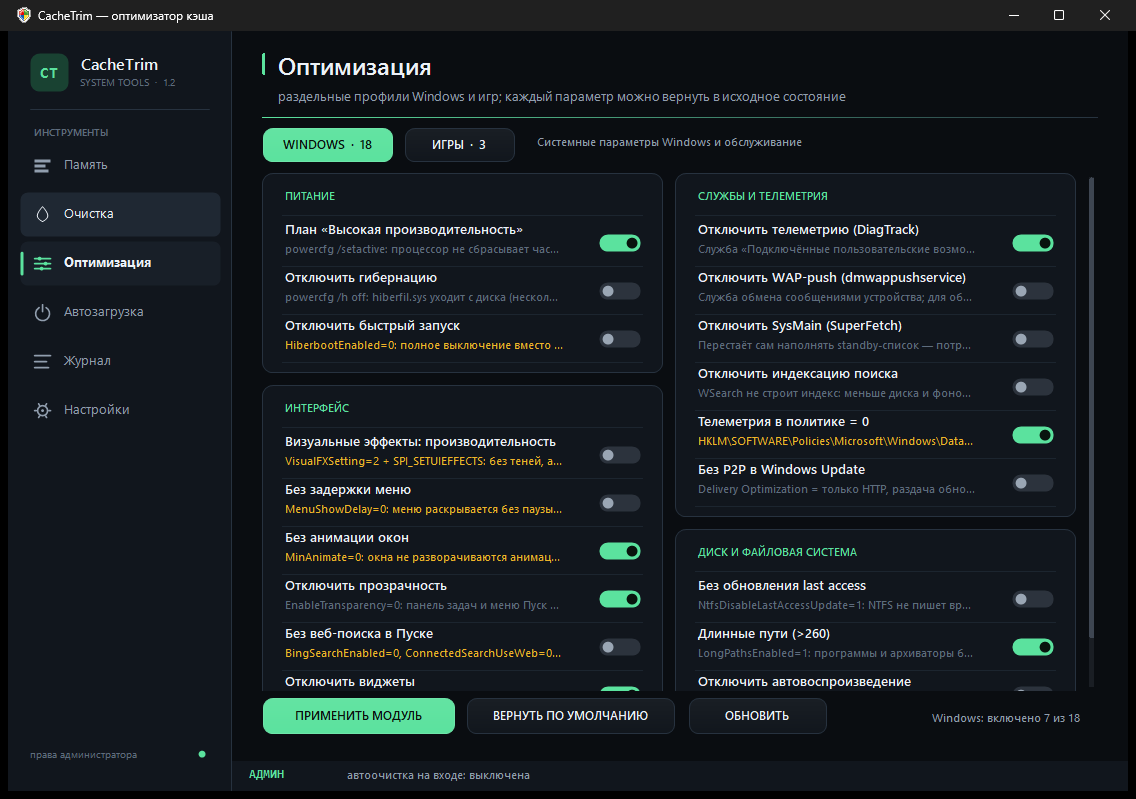
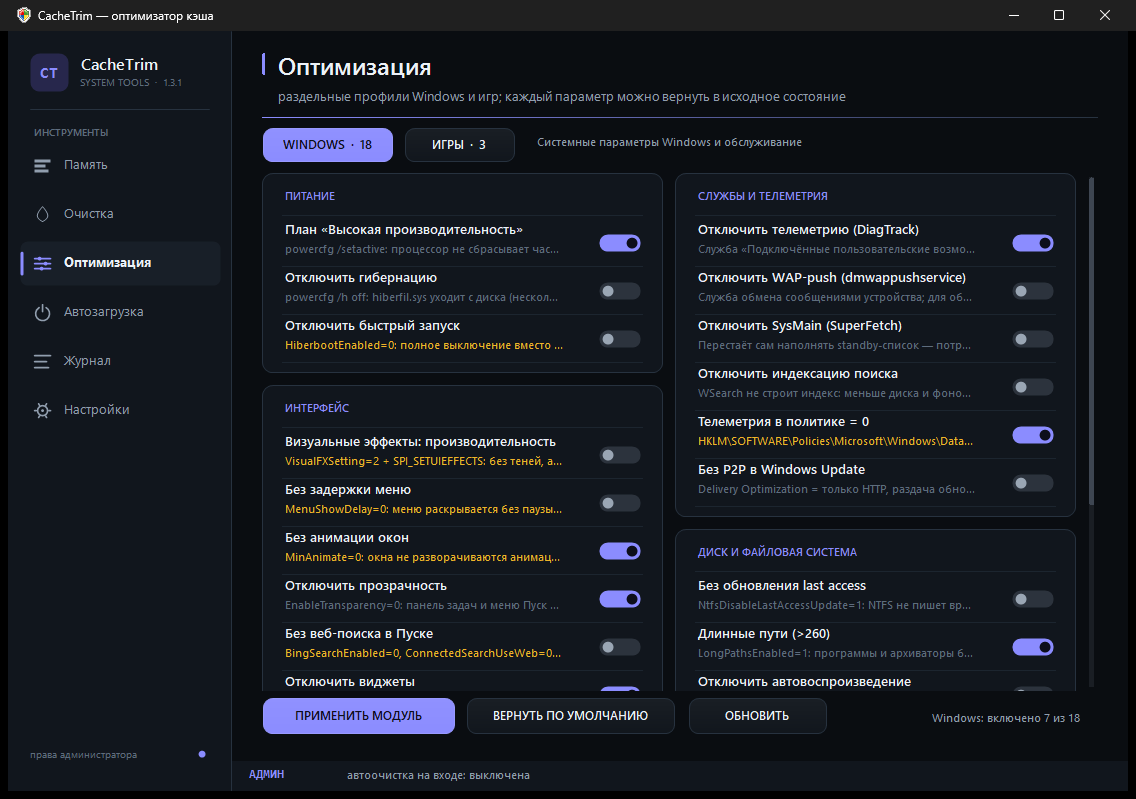
Refresh CacheTrim with an indigo visual theme

diff --git a/src/Controls.cs b/src/Controls.cs
@@ -79,7 +79,7 @@ namespace CacheTrim
                 fill = _down ? Theme.Blend(Theme.Accent, Color.Black, 0.18)
                     : (_hover ? Theme.Blend(Theme.Accent, Color.White, 0.08) : Theme.Accent);
                 border = Theme.Blend(fill, Color.White, 0.12);
-                text = Color.FromArgb(8, 18, 12);
+                text = Color.FromArgb(13, 14, 27);
             }
             else
             {
@@ -158,7 +158,7 @@ namespace CacheTrim
             int x = Checked ? track.Right - d - 3 : track.X + 3;
             Rectangle knob = new Rectangle(x, track.Y + 3, d, d);
 
-            using (SolidBrush b = new SolidBrush(Checked ? Color.FromArgb(9, 20, 14) : Color.FromArgb(154, 166, 180)))
+            using (SolidBrush b = new SolidBrush(Checked ? Color.FromArgb(13, 14, 27) : Color.FromArgb(154, 166, 180)))
                 g.FillEllipse(b, knob);
         }
     }
@@ -220,7 +220,7 @@ namespace CacheTrim
 
             if (Checked)
             {
-                using (Pen p = new Pen(Color.FromArgb(9, 20, 14), 1.8f))
+                using (Pen p = new Pen(Color.FromArgb(13, 14, 27), 1.8f))
                 {
                     p.StartCap = LineCap.Round;
                     p.EndCap = LineCap.Round;

diff --git a/src/Theme.cs b/src/Theme.cs
@@ -17,12 +17,12 @@ namespace CacheTrim
         public static readonly Color Text = Color.FromArgb(237, 242, 248);
         public static readonly Color Muted = Color.FromArgb(145, 158, 174);
         public static readonly Color Faint = Color.FromArgb(94, 108, 125);
-        public static readonly Color Accent = Color.FromArgb(91, 226, 158);
-        public static readonly Color AccentSoft = Color.FromArgb(25, 66, 50);
+        public static readonly Color Accent = Color.FromArgb(139, 140, 255);
+        public static readonly Color AccentSoft = Color.FromArgb(39, 39, 76);
         public static readonly Color Red = Color.FromArgb(226, 88, 74);
         public static readonly Color Amber = Color.FromArgb(240, 180, 41);
-        public static readonly Color Blue = Color.FromArgb(74, 163, 224);
-        public static readonly Color Violet = Color.FromArgb(150, 128, 240);
+        public static readonly Color Blue = Color.FromArgb(83, 177, 255);
+        public static readonly Color Violet = Color.FromArgb(190, 139, 255);
 
         public static Font H1
         {

diff --git a/src/AppInfo.cs b/src/AppInfo.cs
@@ -2,7 +2,7 @@ namespace CacheTrim
 {
     internal static class AppInfo
     {
-        public const string Version = "1.3.0";
+        public const string Version = "1.3.1";
         public const string GitHubRepository = "erwwec/CacheTrim";
         public const string GitHubReleaseApi = "https://api.github.com/repos/erwwec/CacheTrim/releases/latest";
     }

diff --git a/DESIGN-BRIEF.md b/DESIGN-BRIEF.md
@@ -91,24 +91,24 @@ CacheTrim\
 
 | Токен | RGB | Hex | Где используется |
 |---|---|---|---|
-| `Bg` | 12, 14, 17 | `#0C0E11` | фон окна, фон страниц, фон под карточками |
-| `Surface` | 20, 23, 28 | `#14171C` | поверхность карточек, фон рельса, BackColor всех детей карточки |
-| `SurfaceAlt` | 26, 30, 36 | `#1A1E24` | активный пункт рельса, поле Stepper |
-| `Hover` | 32, 37, 44 | `#20252C` | hover-заливка рельса и кнопок |
-| `Line` | 38, 43, 52 | `#262B34` | границы карточек, разделители, вертикаль рельса |
-| `RowLine` | 28, 33, 41 | `#1C2129` | нижняя волосяная линия строки в карточке |
-| `Text` | 231, 236, 243 | `#E7ECF3` | основной текст |
-| `Muted` | 129, 139, 154 | `#818B9A` | подзаголовки, вторичный текст |
-| `Faint` | 86, 94, 106 | `#565E6A` | подписи-хайнтинги, заголовки групп |
-| `Accent` | 56, 214, 122 | `#38D67A` | акцент (зелёный), primary-кнопка, активный пункт, чек |
-| `AccentSoft` | 27, 74, 49 | `#1B4A31` | плашка логотипа «CT» |
+| `Bg` | 10, 13, 17 | `#0A0D11` | фон окна, фон страниц, фон под карточками |
+| `Surface` | 17, 22, 29 | `#11161D` | поверхность карточек, фон рельса, BackColor всех детей карточки |
+| `SurfaceAlt` | 24, 31, 40 | `#181F28` | активный пункт рельса, поле Stepper |
+| `Hover` | 31, 40, 51 | `#1F2833` | hover-заливка рельса и кнопок |
+| `Line` | 39, 50, 63 | `#27323F` | границы карточек, разделители, вертикаль рельса |
+| `RowLine` | 28, 37, 47 | `#1C252F` | нижняя волосяная линия строки в карточке |
+| `Text` | 237, 242, 248 | `#EDF2F8` | основной текст |
+| `Muted` | 145, 158, 174 | `#919EAE` | подзаголовки, вторичный текст |
+| `Faint` | 94, 108, 125 | `#5E6C7D` | подписи-хайнтинги, заголовки групп |
+| `Accent` | 139, 140, 255 | `#8B8CFF` | индиго-акцент, primary-кнопка, активный пункт, чек |
+| `AccentSoft` | 39, 39, 76 | `#27274C` | плашка логотипа «CT» |
 | `Red` | 226, 88, 74 | `#E2584A` | «занято», «без прав» |
 | `Amber` | 240, 180, 41 | `#F0B829` | stand-by, «нужен перезаход» |
-| `Blue` | 74, 163, 224 | `#4AA3E0` | commit, чипы источника автозагрузки |
-| `Violet` | 150, 128, 240 | `#9680F0` | объявлен, в UI почти не используется |
+| `Blue` | 83, 177, 255 | `#53B1FF` | commit, чипы источника автозагрузки |
+| `Violet` | 190, 139, 255 | `#BE8BFF` | дополнительный фиолетовый акцент |
 
 Служебные цвета внутри контролов (не токены, но существуют):
-`#0A140E`/`#08120C` — текст на акценте; `#1A1E24`/`#20242A` — незаполненный чек;
+`#0D0E1B` — текст и галочка на акценте; `#1A1E24`/`#20242A` — незаполненный чек;
 `#9AA6B4` — «выключенный» бегунок тумблера; `#3E4652` — бегунок скроллбара;
 `#1A1E24` — трек скроллбара.
 
@@ -218,7 +218,7 @@ CacheTrim\
 - `Height = 38`, шрифт `Segoe UI Semibold 9`, `FlatStyle.Flat` с `BorderSize = 0`,
   `Cursor.Hand`, `TabStop = false`.
 - `Accent = true` (primary): заливка `Accent`, hover — `Blend(Accent, White, 0.10)`,
-  нажатие — `Blend(Accent, Black, 0.12)`, текст `#08120C`.
+  нажатие — `Blend(Accent, Black, 0.12)`, текст `#0D0E1B`.
 - `Accent = false` (ghost): заливка `SurfaceAlt`, hover `Hover`, граница `Line`
   (на hover — `Blend(Line, White, 0.10)`), текст `Text`.
 - Радиус 7, текст по центру с `EndEllipsis`.
@@ -516,8 +516,9 @@ powershell -NoProfile -ExecutionPolicy Bypass -File .\tools\grab.ps1 -Process Ca
 
 - Палитра обновлена в `Theme.cs`: `Bg #0A0D11`, `Surface #11161D`,
   `SurfaceAlt #181F28`, `Hover #1F2833`, `Line #27323F`, `RowLine #1C252F`,
-  `Text #EDF2F8`, `Muted #919EAE`, `Faint #5E6C7D`, `Accent #5BE29E`,
-  `AccentSoft #194232`. Семантические красный, янтарный, синий и фиолетовый сохранены.
+  `Text #EDF2F8`, `Muted #919EAE`, `Faint #5E6C7D`, `Accent #8B8CFF`,
+  `AccentSoft #27274C`. Семантические красный и янтарный сохранены;
+  `Blue #53B1FF`, `Violet #BE8BFF`.
 - Навигация имеет ширину 224 px; активный пункт использует световой акцент и отдельную
   секцию «Инструменты». Заголовки страниц имеют вертикальный акцент и градиентный разделитель.
 - Карточки памяти перестраиваются из 4 колонок в 2 на узком окне. График заполняет

diff --git a/README.md b/README.md
@@ -10,8 +10,6 @@ Windows и игр с возможностью вернуть исходные з
 
 ![оптимизация](docs/optimize.png)
 
-![игровой модуль](docs/games.png)
-
 ## Интерфейс
 
 Тёмное окно, слева навигация, справа страница.
